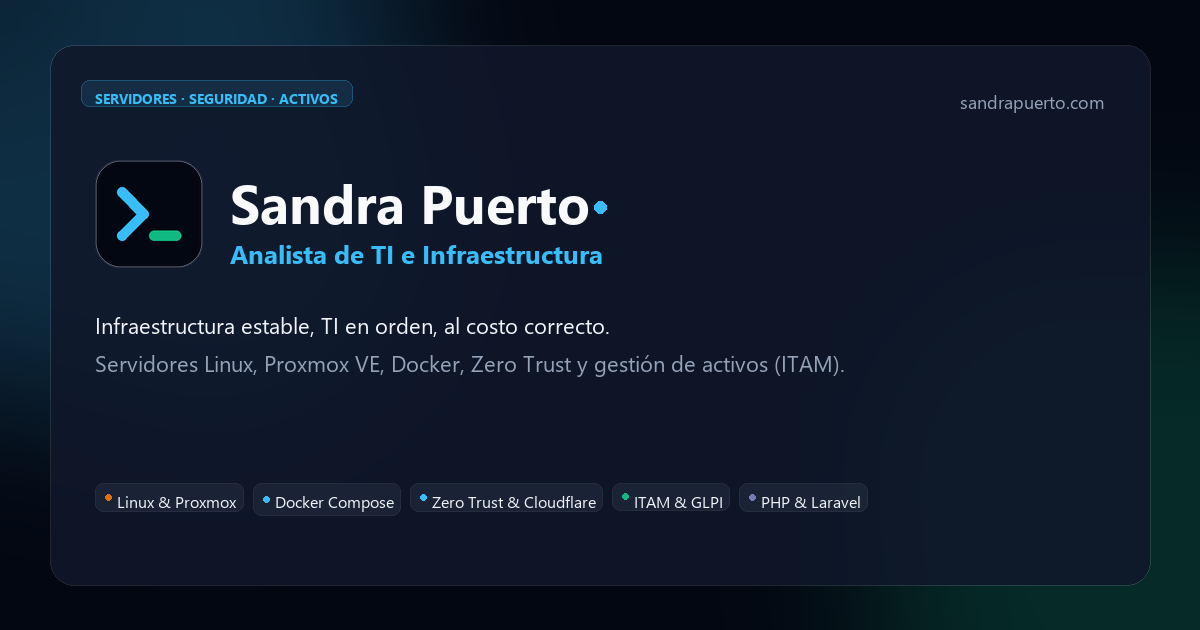
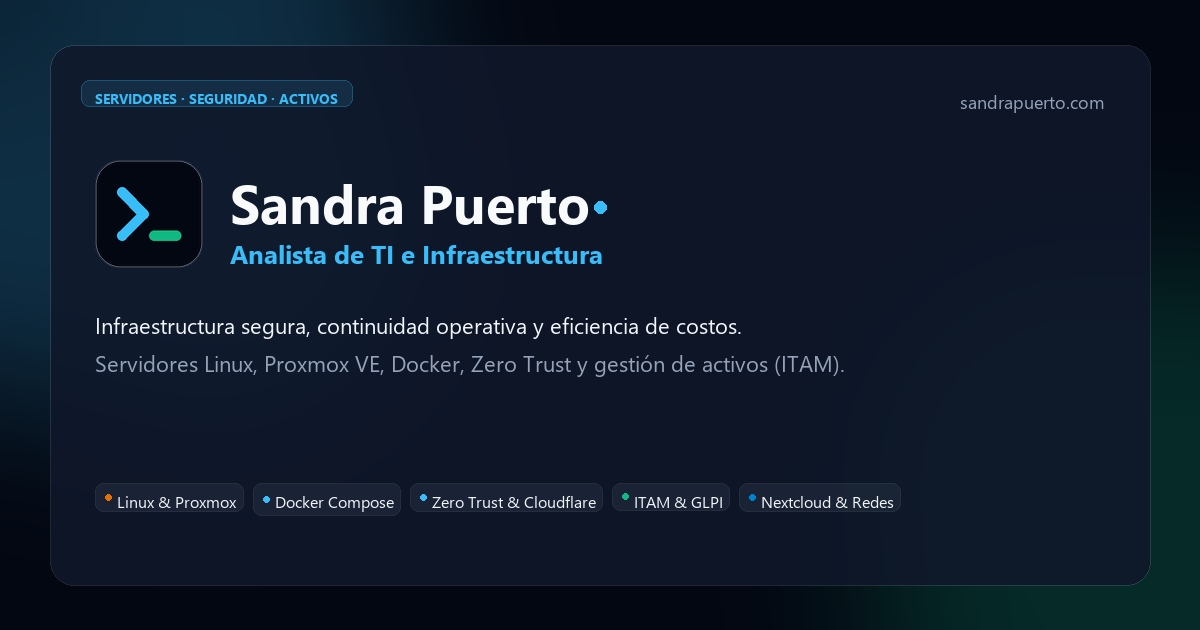
feat: add asset generation script and static public files including og-image and sitemap

Changed region(s): [[0.185, 0.5127, 0.6167, 0.5429], [0.6167, 0.7841, 0.74, 0.8143]]

diff --git a/public/index.html b/public/index.html
@@ -4,7 +4,7 @@
     <meta charset="UTF-8" />
     <meta name="viewport" content="width=device-width, initial-scale=1.0" />
     <title>Sandra Puerto | Analista de TI e Infraestructura</title>
-    <meta name="description" content="Analista de TI e Infraestructura con formación en desarrollo de software. Infraestructura estable, TI en orden, al costo correcto: ITAM, Proxmox, Linux, Docker y Zero Trust. Bogotá, Colombia." />
+    <meta name="description" content="Analista de TI e Infraestructura con formación en desarrollo de software. Infraestructura segura, continuidad operativa y eficiencia de costos: ITAM, Proxmox, Linux, Docker y Zero Trust. Bogotá, Colombia." />
     <meta name="author" content="Sandra Puerto" />
     <link rel="canonical" href="https://sandrapuerto.com/" />
     <link rel="author" href="/humans.txt" />
@@ -19,7 +19,7 @@
     <meta property="og:type" content="website" />
     <meta property="og:url" content="https://sandrapuerto.com/" />
     <meta property="og:title" content="Sandra Puerto | Analista de TI e Infraestructura" />
-    <meta property="og:description" content="Analista de TI e Infraestructura con formación en desarrollo de software. Infraestructura estable, TI en orden, al costo correcto: ITAM, Proxmox, Linux, Docker y Zero Trust. Bogotá, Colombia." />
+    <meta property="og:description" content="Analista de TI e Infraestructura con formación en desarrollo de software. Infraestructura segura, continuidad operativa y eficiencia de costos: ITAM, Proxmox, Linux, Docker y Zero Trust. Bogotá, Colombia." />
     <meta property="og:image" content="https://sandrapuerto.com/images/og-image.png" />
     <meta property="og:image:width" content="1200" />
     <meta property="og:image:height" content="630" />
@@ -29,7 +29,7 @@
     <!-- Twitter Card -->
     <meta name="twitter:card" content="summary_large_image" />
     <meta name="twitter:title" content="Sandra Puerto | Analista de TI e Infraestructura" />
-    <meta name="twitter:description" content="Analista de TI e Infraestructura con formación en desarrollo de software. Infraestructura estable, TI en orden, al costo correcto: ITAM, Proxmox, Linux, Docker y Zero Trust. Bogotá, Colombia." />
+    <meta name="twitter:description" content="Analista de TI e Infraestructura con formación en desarrollo de software. Infraestructura segura, continuidad operativa y eficiencia de costos: ITAM, Proxmox, Linux, Docker y Zero Trust. Bogotá, Colombia." />
     <meta name="twitter:image" content="https://sandrapuerto.com/images/og-image.png" />
 
     <link rel="preconnect" href="https://fonts.googleapis.com" />
@@ -71,8 +71,8 @@
         <div class="container">
           <span class="hero-tag animate-in">Analista de TI e Infraestructura · Activos, Servidores y Seguridad</span>
           <h1 class="animate-in delay-1">
-            Infraestructura estable, TI en orden,
-            <span class="text-gradient">al costo correcto</span>.
+            Infraestructura segura, continuidad operativa
+            <span class="text-gradient">y eficiencia de costos</span>.
           </h1>
           <p class="subtitle animate-in delay-2">
             Administración de tecnología desde Bogotá, con foco en costo, seguridad y operación: servidores Linux, virtualización con Proxmox, gestión de activos (ITAM) y despliegues Zero Trust sin puertos expuestos.
@@ -87,7 +87,7 @@
         </div>
       </section>
 
-      <!-- Métricas respaldadas en logros reales: Seguridad, Costo y Desarrollo -->
+      <!-- Métricas respaldadas en logros reales: Seguridad, Red y Costo/Infraestructura -->
       <section id="metricas" class="metricas">
         <div class="container">
           <div class="metrics-grid">
@@ -100,8 +100,8 @@
               <span class="metric-label">De capacidad de red en una sede, con una fibra óptica dedicada de 1 Gb por el costo mensual de uno solo de los enlaces anteriores</span>
             </div>
             <div class="metric fade-up delay-2 glass-panel">
-              <span class="metric-value text-gradient">~30%</span>
-              <span class="metric-label">Del tamaño del código legacy equivalente ocupa el código nuevo de un ERP, gracias a utilidades reutilizables bajo el principio DRY</span>
+              <span class="metric-value text-gradient">100%</span>
+              <span class="metric-label">Almacenamiento corporativo privado y autónomo en Nextcloud sobre Proxmox VE, prescindiendo de suscripciones SaaS recurrentes</span>
             </div>
           </div>
         </div>
@@ -145,15 +145,19 @@
             <div class="tech-item tech-proxmox"><span class="tech-icon" aria-hidden="true"></span>Proxmox</div>
             <div class="tech-item tech-cloudflare"><span class="tech-icon" aria-hidden="true"></span>Cloudflare</div>
             <div class="tech-item tech-nextcloud"><span class="tech-icon" aria-hidden="true"></span>Nextcloud</div>
-            <div class="tech-item tech-php"><span class="tech-icon" aria-hidden="true"></span>PHP</div>
-            <div class="tech-item tech-laravel"><span class="tech-icon" aria-hidden="true"></span>Laravel</div>
+            <div class="tech-item tech-linux"><span class="tech-icon" aria-hidden="true"></span>Linux</div>
+            <div class="tech-item tech-proxmox"><span class="tech-icon" aria-hidden="true"></span>Proxmox</div>
+            <div class="tech-item tech-cloudflare"><span class="tech-icon" aria-hidden="true"></span>Cloudflare</div>
+            <div class="tech-item tech-nextcloud"><span class="tech-icon" aria-hidden="true"></span>Nextcloud</div>
             <!-- Copia duplicada para el loop infinito del marquee (decorativa) -->
             <div class="tech-item tech-linux" aria-hidden="true"><span class="tech-icon"></span>Linux</div>
             <div class="tech-item tech-proxmox" aria-hidden="true"><span class="tech-icon"></span>Proxmox</div>
             <div class="tech-item tech-cloudflare" aria-hidden="true"><span class="tech-icon"></span>Cloudflare</div>
             <div class="tech-item tech-nextcloud" aria-hidden="true"><span class="tech-icon"></span>Nextcloud</div>
-            <div class="tech-item tech-php" aria-hidden="true"><span class="tech-icon"></span>PHP</div>
-            <div class="tech-item tech-laravel" aria-hidden="true"><span class="tech-icon"></span>Laravel</div>
+            <div class="tech-item tech-linux" aria-hidden="true"><span class="tech-icon"></span>Linux</div>
+            <div class="tech-item tech-proxmox" aria-hidden="true"><span class="tech-icon"></span>Proxmox</div>
+            <div class="tech-item tech-cloudflare" aria-hidden="true"><span class="tech-icon"></span>Cloudflare</div>
+            <div class="tech-item tech-nextcloud" aria-hidden="true"><span class="tech-icon"></span>Nextcloud</div>
           </div>
         </div>
       </section>
@@ -162,7 +166,7 @@
         <div class="container">
           <div class="section-header text-center fade-up">
             <span class="hero-tag" style="margin-bottom: 0.5rem; background: rgba(16, 185, 129, 0.1); border-color: rgba(16, 185, 129, 0.2); color: #10b981;">Proyectos técnicos</span>
-            <h2 class="section-title" style="margin-top: 0; margin-bottom: 0.5rem">Arquitectura de despliegue y desarrollo</h2>
+            <h2 class="section-title" style="margin-top: 0; margin-bottom: 0.5rem">Arquitectura de despliegue y proyectos técnicos</h2>
             <p style="max-width: 700px; margin: 0 auto 2.5rem auto; font-size: 1.15rem; color: var(--text-primary); font-weight: 500; line-height: 1.4;">
               Proyectos propios, de principio a fin: diseño de arquitectura, seguridad de red y modelo de datos.
             </p>
@@ -206,7 +210,7 @@
       <section id="competencias" class="competencias section">
         <div class="container">
           <h2 class="section-title fade-up">Competencias clave</h2>
-          <div class="competencies-grid grid-2">
+          <div class="competencies-grid">
             <div class="comp-card glass-panel fade-up">
               <div class="card-icon">
                 <svg width="24" height="24" viewBox="0 0 24 24" fill="none" stroke="currentColor" stroke-width="2"><rect x="2" y="2" width="20" height="8" rx="2" ry="2"></rect><rect x="2" y="14" width="20" height="8" rx="2" ry="2"></rect><line x1="6" y1="6" x2="6.01" y2="6"></line><line x1="6" y1="18" x2="6.01" y2="18"></line></svg>
@@ -244,19 +248,6 @@
                 <li>Autenticación SSH por llave cifrada y segundo factor (TOTP)</li>
                 <li>Diagnóstico de redes LAN, resolución de fallas y reservas DHCP</li>
                 <li>Evaluación y modernización de enlaces de red</li>
-              </ul>
-            </div>
-            <div class="comp-card glass-panel fade-up delay-1">
-              <div class="card-icon">
-                <svg width="24" height="24" viewBox="0 0 24 24" fill="none" stroke="currentColor" stroke-width="2"><polyline points="16 18 22 12 16 6"></polyline><polyline points="8 6 2 12 8 18"></polyline></svg>
-              </div>
-              <h3>Desarrollo y Modelado de Software</h3>
-              <ul>
-                <li>Desarrollo backend con PHP y Laravel</li>
-                <li>Principios de ingeniería: Clean Code, DRY y patrones de diseño</li>
-                <li>Bases de datos relacionales (PostgreSQL, SQL) y NoSQL (MongoDB, Redis)</li>
-                <li>Control de versiones colaborativo con Git y GitHub</li>
-                <li>Sistemas legacy y utilidades reutilizables</li>
               </ul>
             </div>
           </div>

diff --git a/scripts/generate_assets.py b/scripts/generate_assets.py
@@ -114,7 +114,7 @@ def create_og_image():
         ("Docker Compose", (56, 189, 248, 255)),
         ("Zero Trust & Cloudflare", (56, 189, 248, 255)),
         ("ITAM & GLPI", (16, 185, 129, 255)),
-        ("PHP & Laravel", (119, 123, 180, 255))
+        ("Nextcloud & Redes", (0, 130, 201, 255))
     ]
     
     tag_x = 95
@@ -157,7 +157,7 @@ def create_og_image():
     
     # Description lines
     desc_y = 310
-    draw.text((95, desc_y), "Infraestructura estable, TI en orden, al costo correcto.", font=f_desc, fill="#f1f5f9")
+    draw.text((95, desc_y), "Infraestructura segura, continuidad operativa y eficiencia de costos.", font=f_desc, fill="#f1f5f9")
     draw.text((95, desc_y + 38), "Servidores Linux, Proxmox VE, Docker, Zero Trust y gestión de activos (ITAM).", font=f_desc, fill="#94a3b8")
     
     # Draw tag text and dots
